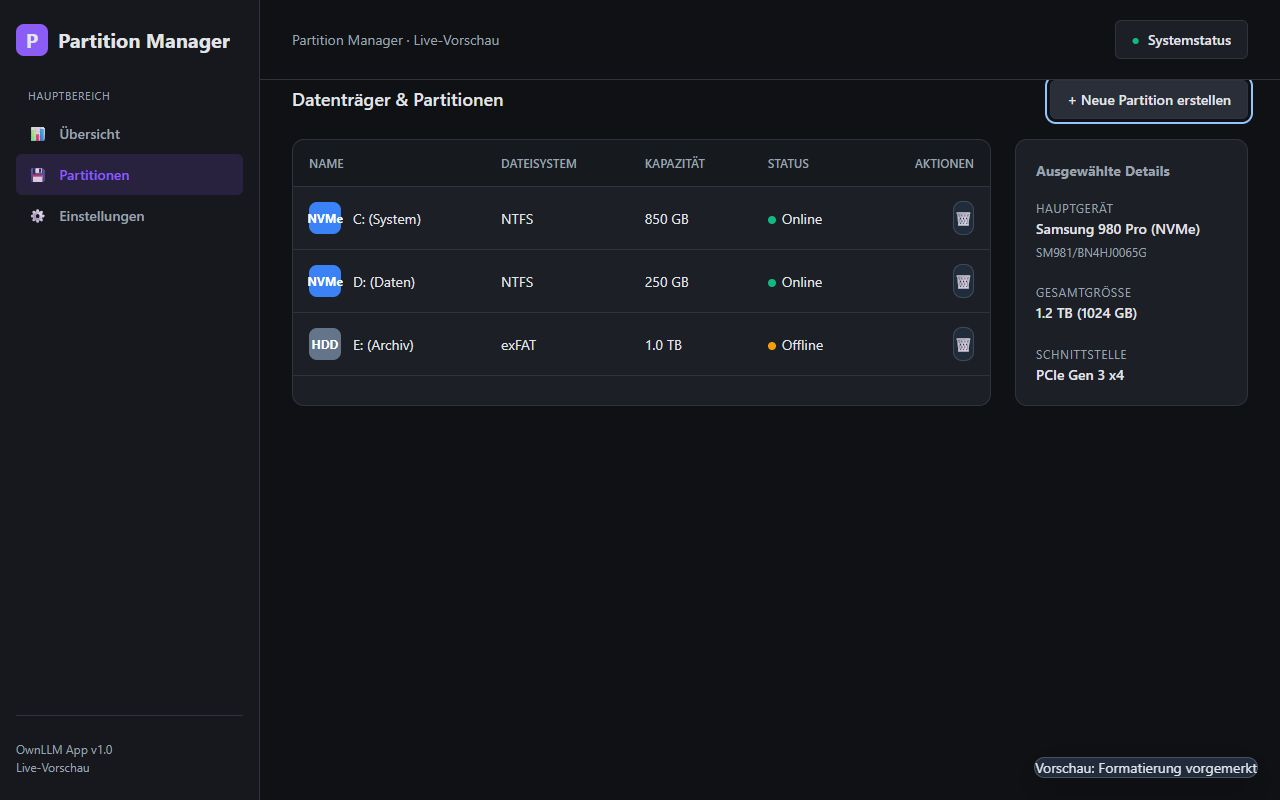
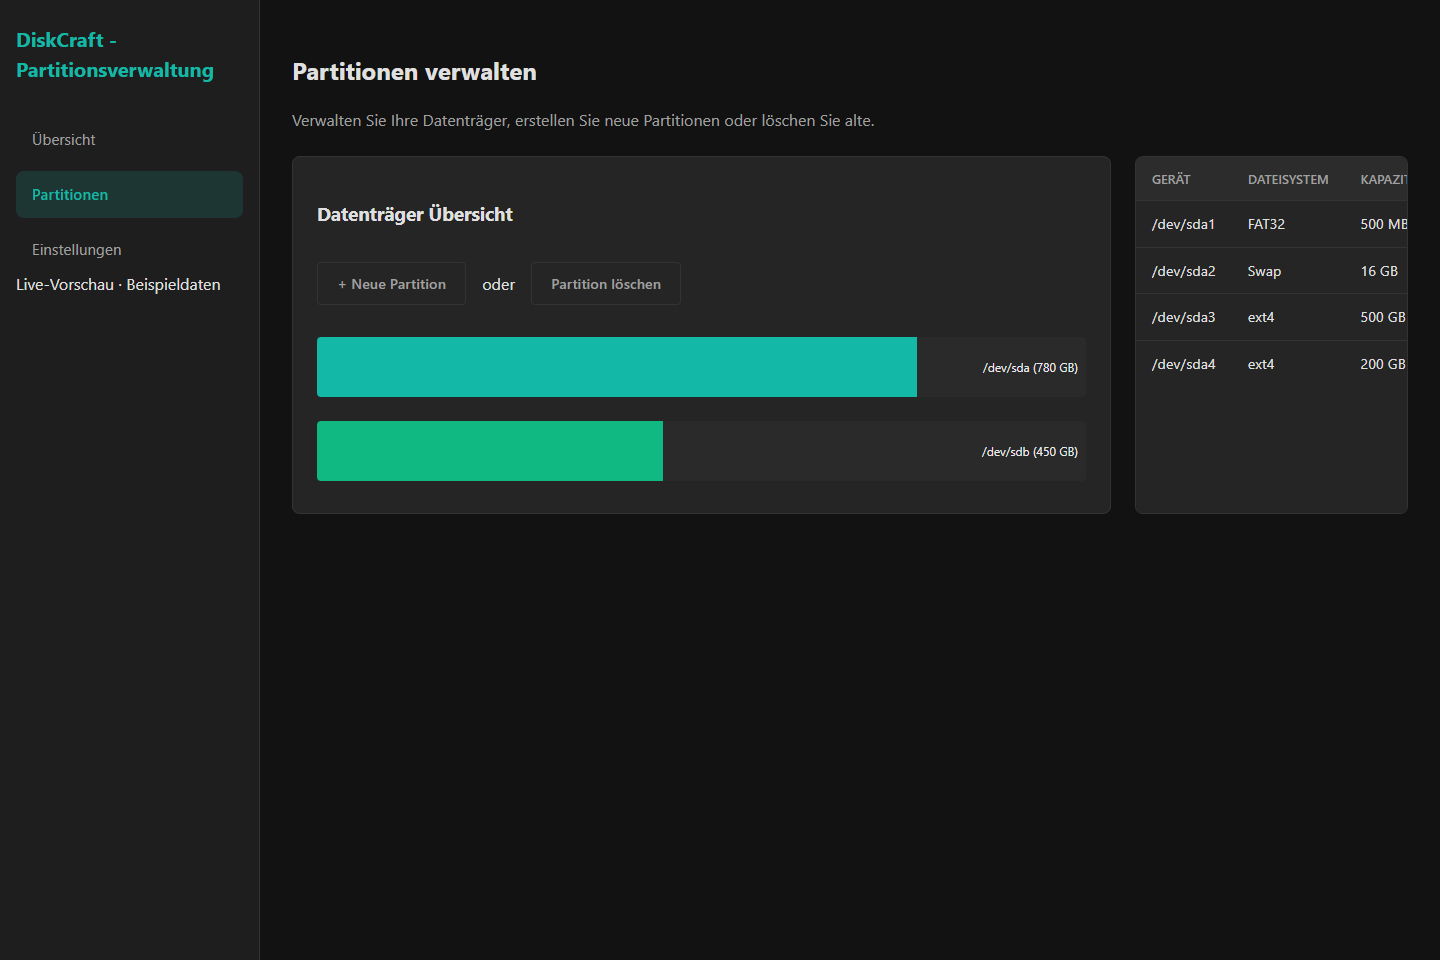
Present OwnLLM Studio 0.4.5 with screenshots and changelog

diff --git a/README.md b/README.md
@@ -7,7 +7,7 @@ OwnLLM Studio ist ein lokaler Assistent für Windows. Du sammelst Gespräche in 
 
 | Ausgabe | Download |
 | --- | --- |
-| Windows, 64 Bit | [Installer 0.4.4 herunterladen](https://github.com/ZUMBYTE-AppSolution/ownllm-release/releases/download/v0.4.4/OwnLLM-Studio-0.4.4-Windows-Setup.exe) |
+| Windows, 64 Bit | [Installer 0.4.5 herunterladen](https://github.com/ZUMBYTE-AppSolution/ownllm-release/releases/download/v0.4.5/OwnLLM-Studio-0.4.5-Windows-Setup.exe) |
 
 Der Installer enthält die Programmdateien und bietet eine Desktopverknüpfung an. Ein Sprachmodell kann bei der Einrichtung zusätzlich heruntergeladen werden. Visual Studio oder andere Entwicklungswerkzeuge brauchst du für die Nutzung nicht.
 
@@ -42,13 +42,16 @@ Die Bilder zeigen Beispielprojekte und einen lokal erzeugten App-Entwurf. Die Pa
 
 Seitenleiste, Gespräch und Vorschau lassen sich in der Breite verschieben. Während eines Auftrags zeigt die App die aktuelle Arbeitsphase an.
 
-## Neu in 0.4.4
+## Neu in 0.4.5
 
-- Eigene dunkle Kontextmenüs und Dialoge, auch für die Datei- und Ordnerauswahl.
-- Chats und Projekte archivieren, wiederherstellen oder löschen.
-- Mockups vor dem Speichern auf bedienbare Menüs, Dialoge und eine schmale Fensteransicht prüfen. Die bisherige Vorschau bleibt bei fehlgeschlagenen Änderungen erhalten.
-- Updates direkt in der App herunterladen und installieren.
-- Fehler beim ersten Einrichten des Cacheordners behoben.
+- Fehler oben in der App oder per Rechtsklick melden. Du prüfst den Text vor dem Senden; die installierte Version wird automatisch ergänzt.
+- Verlangte HTML-Dateien als echte, geprüfte Datei erhalten.
+- Aufträge und Teilaufgaben laufen ohne feste Grenze für Werkzeugschritte weiter. Stopp bleibt jederzeit verfügbar.
+- Angepinnte Projekte öffnen den zuletzt besuchten Chat – auch nach einem Neustart.
+- Unter **Einstellungen → Modelle → Rechenleistung** zwischen Automatisch, GPU und Nur CPU wählen und die tatsächliche Belegung ansehen.
+- Mockups mit mehreren Installationsdialogen zuverlässiger erstellen und ändern.
+- Flaches einzeiliges Suchfeld und ein deutliches Stoppsymbol.
+- Zumbyte-Copyright und ein eigener Infodialog mit Kontakt und Lizenztexten.
 
 [Ausführlicher Changelog](CHANGELOG.md)
 
@@ -78,3 +81,5 @@ Beim Löschen eines Chats bleiben seine Dateien im Projekt erhalten. Beim Entfer
 [Fehler melden](https://github.com/ZUMBYTE-AppSolution/ownllm-release/issues) · [Alle Downloads](https://github.com/ZUMBYTE-AppSolution/ownllm-release/releases) · [Zumbyte – AppSolution](https://www.zumbyte.de)
 
 Nenne bei einem Fehler bitte die verwendete Version und die Schritte, bei denen er auftritt.
+
+© 2026 Zumbyte AppSolution · [Impressum](https://www.zumbyte.de/impressum/) · [Datenschutz auf zumbyte.de](https://www.zumbyte.de/datenschutz/)

diff --git a/CHANGELOG.md b/CHANGELOG.md
@@ -1,5 +1,17 @@
 # Changelog
 
+## 0.4.5 · 10. November 2026
+
+- Ausgaben und Fehler direkt aus der App an Zumbyte melden. Meldedialog mit bearbeitbarem Text und automatischer App-Version; technische Angaben sind abwählbar.
+- Eigene Fehlerliste im Zumbyte-Adminbereich mit Status, Priorität und Bearbeitungsverlauf.
+- HTML-Dateien werden vollständig erzeugt, geprüft, gespeichert und zurückgelesen. Bloße Erstellungsankündigungen gelten nicht mehr als fertiges Ergebnis.
+- Keine feste Grenze für Werkzeugschritte pro Auftrag oder Teilaufgabe. Stopp bleibt jederzeit verfügbar.
+- Angepinnte Projekte öffnen den zuletzt besuchten Chat; die Auswahl bleibt nach dem Neustart erhalten. Archivierte oder gelöschte Chats werden übersprungen.
+- GPU-/CPU-Auswahl unter Einstellungen → Modelle → Rechenleistung. Die Anzeige zeigt die tatsächlich geladene Modellbelegung.
+- Wiederholte Dialoge und Formularfelder in Mockups werden vor dem Speichern abgeglichen. Eindeutige Verweise bleiben bedienbar; unklare Zuordnungen gehen zur Korrektur zurück an das Modell.
+- Kompakte einzeilige Suche und ausgefülltes Stoppsymbol.
+- Zumbyte-Copyright in der Seitenleiste und im Installer. Eigener Infodialog mit Version, Herausgeber, Kontakt, Impressum, Datenschutz und mitgelieferten Lizenztexten.
+
 ## 0.4.4 · 10. November 2026
 
 ### Oberfläche
